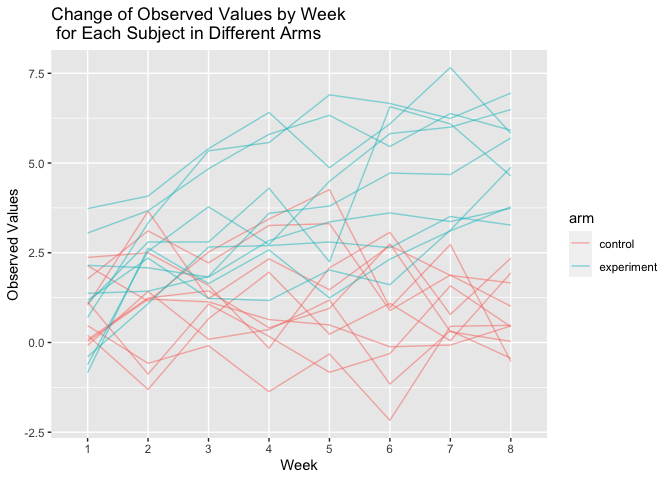
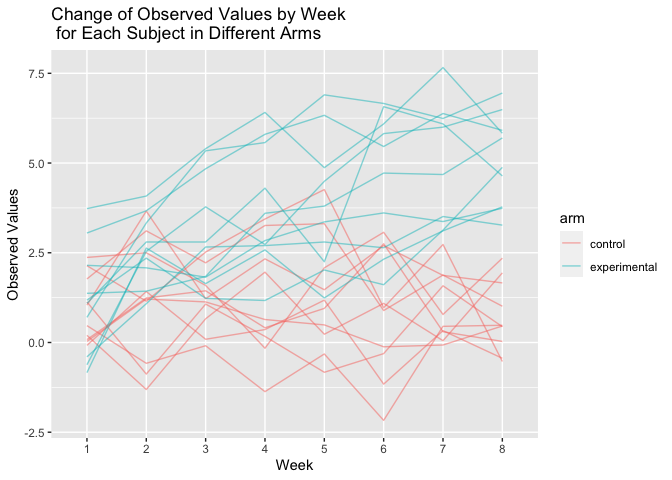
Made comments about the spaghetti plot.

diff --git a/p8105_hw5_pz2281.md b/p8105_hw5_pz2281.md
@@ -362,210 +362,9 @@ study_df = tibble(
   mutate(id = gsub(".csv", "", id)) %>% 
   mutate(arm_id = id) %>% 
   separate(id, c("arm", "id"), sep = "_") %>% 
-  mutate(arm = recode(arm, con = "control", exp = "experiment"))
-```
+  mutate(arm = recode(arm, con = "control", exp = "experimental"))
 
-    ## Rows: 1 Columns: 8
 
-    ## ── Column specification ────────────────────────────────────────────────────────
-    ## Delimiter: ","
-    ## dbl (8): week_1, week_2, week_3, week_4, week_5, week_6, week_7, week_8
-
-    ## 
-    ## ℹ Use `spec()` to retrieve the full column specification for this data.
-    ## ℹ Specify the column types or set `show_col_types = FALSE` to quiet this message.
-
-    ## Rows: 1 Columns: 8
-
-    ## ── Column specification ────────────────────────────────────────────────────────
-    ## Delimiter: ","
-    ## dbl (8): week_1, week_2, week_3, week_4, week_5, week_6, week_7, week_8
-
-    ## 
-    ## ℹ Use `spec()` to retrieve the full column specification for this data.
-    ## ℹ Specify the column types or set `show_col_types = FALSE` to quiet this message.
-
-    ## Rows: 1 Columns: 8
-
-    ## ── Column specification ────────────────────────────────────────────────────────
-    ## Delimiter: ","
-    ## dbl (8): week_1, week_2, week_3, week_4, week_5, week_6, week_7, week_8
-
-    ## 
-    ## ℹ Use `spec()` to retrieve the full column specification for this data.
-    ## ℹ Specify the column types or set `show_col_types = FALSE` to quiet this message.
-
-    ## Rows: 1 Columns: 8
-
-    ## ── Column specification ────────────────────────────────────────────────────────
-    ## Delimiter: ","
-    ## dbl (8): week_1, week_2, week_3, week_4, week_5, week_6, week_7, week_8
-
-    ## 
-    ## ℹ Use `spec()` to retrieve the full column specification for this data.
-    ## ℹ Specify the column types or set `show_col_types = FALSE` to quiet this message.
-
-    ## Rows: 1 Columns: 8
-
-    ## ── Column specification ────────────────────────────────────────────────────────
-    ## Delimiter: ","
-    ## dbl (8): week_1, week_2, week_3, week_4, week_5, week_6, week_7, week_8
-
-    ## 
-    ## ℹ Use `spec()` to retrieve the full column specification for this data.
-    ## ℹ Specify the column types or set `show_col_types = FALSE` to quiet this message.
-
-    ## Rows: 1 Columns: 8
-
-    ## ── Column specification ────────────────────────────────────────────────────────
-    ## Delimiter: ","
-    ## dbl (8): week_1, week_2, week_3, week_4, week_5, week_6, week_7, week_8
-
-    ## 
-    ## ℹ Use `spec()` to retrieve the full column specification for this data.
-    ## ℹ Specify the column types or set `show_col_types = FALSE` to quiet this message.
-
-    ## Rows: 1 Columns: 8
-
-    ## ── Column specification ────────────────────────────────────────────────────────
-    ## Delimiter: ","
-    ## dbl (8): week_1, week_2, week_3, week_4, week_5, week_6, week_7, week_8
-
-    ## 
-    ## ℹ Use `spec()` to retrieve the full column specification for this data.
-    ## ℹ Specify the column types or set `show_col_types = FALSE` to quiet this message.
-
-    ## Rows: 1 Columns: 8
-
-    ## ── Column specification ────────────────────────────────────────────────────────
-    ## Delimiter: ","
-    ## dbl (8): week_1, week_2, week_3, week_4, week_5, week_6, week_7, week_8
-
-    ## 
-    ## ℹ Use `spec()` to retrieve the full column specification for this data.
-    ## ℹ Specify the column types or set `show_col_types = FALSE` to quiet this message.
-
-    ## Rows: 1 Columns: 8
-
-    ## ── Column specification ────────────────────────────────────────────────────────
-    ## Delimiter: ","
-    ## dbl (8): week_1, week_2, week_3, week_4, week_5, week_6, week_7, week_8
-
-    ## 
-    ## ℹ Use `spec()` to retrieve the full column specification for this data.
-    ## ℹ Specify the column types or set `show_col_types = FALSE` to quiet this message.
-
-    ## Rows: 1 Columns: 8
-
-    ## ── Column specification ────────────────────────────────────────────────────────
-    ## Delimiter: ","
-    ## dbl (8): week_1, week_2, week_3, week_4, week_5, week_6, week_7, week_8
-
-    ## 
-    ## ℹ Use `spec()` to retrieve the full column specification for this data.
-    ## ℹ Specify the column types or set `show_col_types = FALSE` to quiet this message.
-
-    ## Rows: 1 Columns: 8
-
-    ## ── Column specification ────────────────────────────────────────────────────────
-    ## Delimiter: ","
-    ## dbl (8): week_1, week_2, week_3, week_4, week_5, week_6, week_7, week_8
-
-    ## 
-    ## ℹ Use `spec()` to retrieve the full column specification for this data.
-    ## ℹ Specify the column types or set `show_col_types = FALSE` to quiet this message.
-
-    ## Rows: 1 Columns: 8
-
-    ## ── Column specification ────────────────────────────────────────────────────────
-    ## Delimiter: ","
-    ## dbl (8): week_1, week_2, week_3, week_4, week_5, week_6, week_7, week_8
-
-    ## 
-    ## ℹ Use `spec()` to retrieve the full column specification for this data.
-    ## ℹ Specify the column types or set `show_col_types = FALSE` to quiet this message.
-
-    ## Rows: 1 Columns: 8
-
-    ## ── Column specification ────────────────────────────────────────────────────────
-    ## Delimiter: ","
-    ## dbl (8): week_1, week_2, week_3, week_4, week_5, week_6, week_7, week_8
-
-    ## 
-    ## ℹ Use `spec()` to retrieve the full column specification for this data.
-    ## ℹ Specify the column types or set `show_col_types = FALSE` to quiet this message.
-
-    ## Rows: 1 Columns: 8
-
-    ## ── Column specification ────────────────────────────────────────────────────────
-    ## Delimiter: ","
-    ## dbl (8): week_1, week_2, week_3, week_4, week_5, week_6, week_7, week_8
-
-    ## 
-    ## ℹ Use `spec()` to retrieve the full column specification for this data.
-    ## ℹ Specify the column types or set `show_col_types = FALSE` to quiet this message.
-
-    ## Rows: 1 Columns: 8
-
-    ## ── Column specification ────────────────────────────────────────────────────────
-    ## Delimiter: ","
-    ## dbl (8): week_1, week_2, week_3, week_4, week_5, week_6, week_7, week_8
-
-    ## 
-    ## ℹ Use `spec()` to retrieve the full column specification for this data.
-    ## ℹ Specify the column types or set `show_col_types = FALSE` to quiet this message.
-
-    ## Rows: 1 Columns: 8
-
-    ## ── Column specification ────────────────────────────────────────────────────────
-    ## Delimiter: ","
-    ## dbl (8): week_1, week_2, week_3, week_4, week_5, week_6, week_7, week_8
-
-    ## 
-    ## ℹ Use `spec()` to retrieve the full column specification for this data.
-    ## ℹ Specify the column types or set `show_col_types = FALSE` to quiet this message.
-
-    ## Rows: 1 Columns: 8
-
-    ## ── Column specification ────────────────────────────────────────────────────────
-    ## Delimiter: ","
-    ## dbl (8): week_1, week_2, week_3, week_4, week_5, week_6, week_7, week_8
-
-    ## 
-    ## ℹ Use `spec()` to retrieve the full column specification for this data.
-    ## ℹ Specify the column types or set `show_col_types = FALSE` to quiet this message.
-
-    ## Rows: 1 Columns: 8
-
-    ## ── Column specification ────────────────────────────────────────────────────────
-    ## Delimiter: ","
-    ## dbl (8): week_1, week_2, week_3, week_4, week_5, week_6, week_7, week_8
-
-    ## 
-    ## ℹ Use `spec()` to retrieve the full column specification for this data.
-    ## ℹ Specify the column types or set `show_col_types = FALSE` to quiet this message.
-
-    ## Rows: 1 Columns: 8
-
-    ## ── Column specification ────────────────────────────────────────────────────────
-    ## Delimiter: ","
-    ## dbl (8): week_1, week_2, week_3, week_4, week_5, week_6, week_7, week_8
-
-    ## 
-    ## ℹ Use `spec()` to retrieve the full column specification for this data.
-    ## ℹ Specify the column types or set `show_col_types = FALSE` to quiet this message.
-
-    ## Rows: 1 Columns: 8
-
-    ## ── Column specification ────────────────────────────────────────────────────────
-    ## Delimiter: ","
-    ## dbl (8): week_1, week_2, week_3, week_4, week_5, week_6, week_7, week_8
-
-    ## 
-    ## ℹ Use `spec()` to retrieve the full column specification for this data.
-    ## ℹ Specify the column types or set `show_col_types = FALSE` to quiet this message.
-
-``` r
 spaghetti_plot = study_df %>% 
   ggplot(aes(x = week, y = observed_value, group = arm_id, color = arm)) +
   geom_line(alpha = 0.5) +
@@ -578,6 +377,13 @@ spaghetti_plot
 ```
 
 ![](p8105_hw5_pz2281_files/figure-gfm/unnamed-chunk-10-1.png)<!-- -->
+
+From the plot, we can see that from week 1 to week 8, there was an
+noticeable trend of general increase of the observed value in the
+experimental group. The change of the value is from around 0-3.75 to
+3.75-7. However, there is no significant trend of increase or decrease
+for the observed value in the control group as weeks passed. Observed
+values maintained around 0 to 2.5 from week 1 to week 8.
 
 ## Problem 3
 
